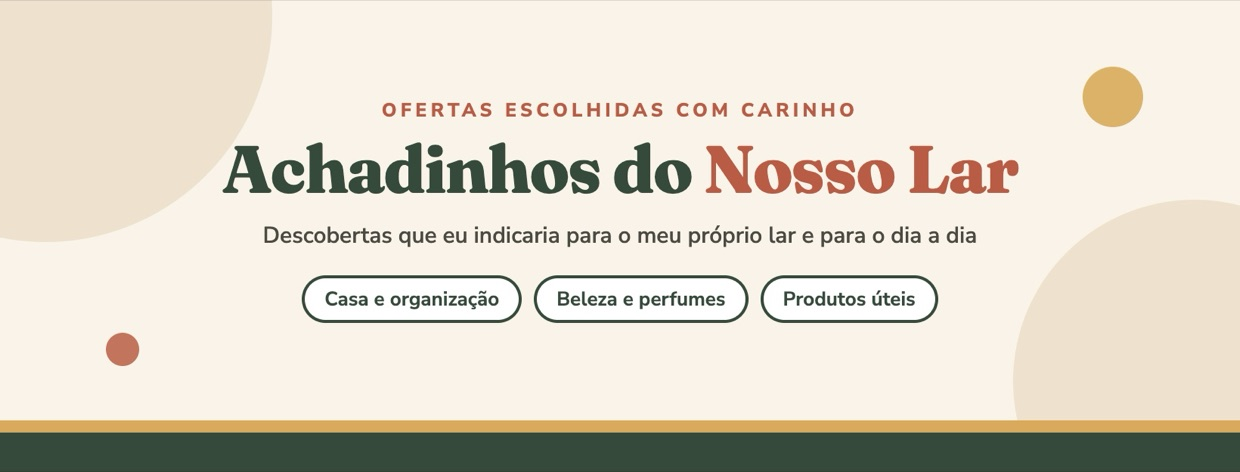
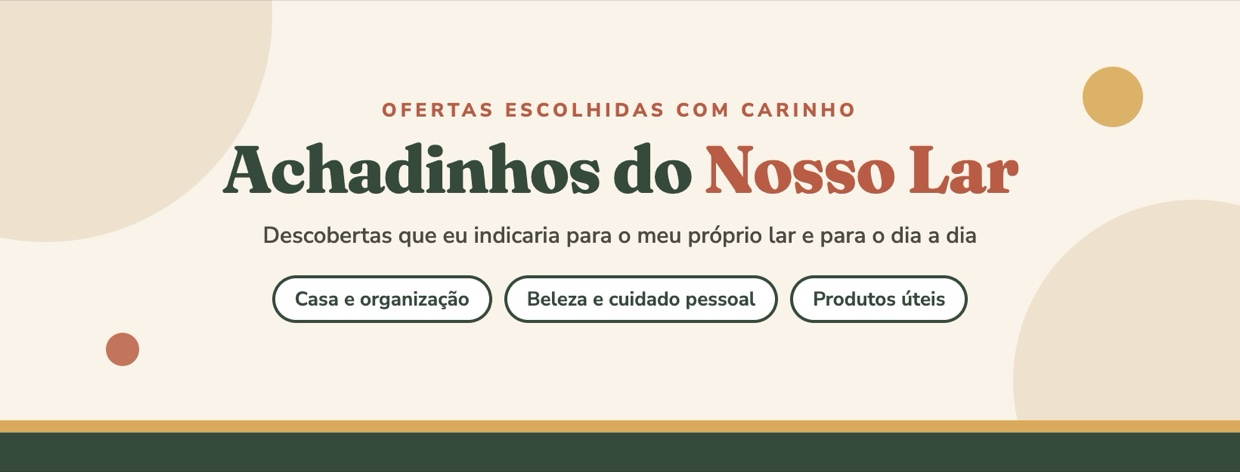
Troca perfumes por beleza e cuidado pessoal no texto e na capa

Changed region(s): [[0.2145, 0.5636, 0.7968, 0.6822]]

diff --git a/index.html b/index.html
@@ -4,11 +4,11 @@
 <meta charset="utf-8">
 <meta name="viewport" content="width=device-width, initial-scale=1, viewport-fit=cover">
 <title>Achadinhos do Nosso Lar | Grupo de ofertas no WhatsApp</title>
-<meta name="description" content="Achadinhos de casa, decoração, beleza, perfumes e produtos úteis da Shopee, do Mercado Livre e de outras lojas, escolhidos com carinho. Entre no grupo do WhatsApp.">
+<meta name="description" content="Achadinhos de casa, decoração, beleza e cuidado pessoal, além de produtos úteis da Shopee, do Mercado Livre e de outras lojas, escolhidos com carinho. Entre no grupo do WhatsApp.">
 <meta name="theme-color" content="#2F4B3A">
 <meta property="og:type" content="website">
 <meta property="og:title" content="Achadinhos do Nosso Lar">
-<meta property="og:description" content="Grupo de ofertas no WhatsApp: casa, decoração, beleza, perfumes e produtos úteis, escolhidos com carinho.">
+<meta property="og:description" content="Grupo de ofertas no WhatsApp: casa, decoração, beleza e cuidado pessoal, além de produtos úteis, escolhidos com carinho.">
 <meta property="og:image" content="https://thiagobenine.github.io/achadinhos-nosso-lar/img/capa.jpg">
 <meta property="og:url" content="https://thiagobenine.github.io/achadinhos-nosso-lar/">
 <link rel="icon" href="img/perfil.jpg">
@@ -76,7 +76,7 @@ src="https://www.facebook.com/tr?id=1785289442755386&ev=PageView&noscript=1"
 <body>
 <div class="pagina">
   <header class="topo">
-    <img class="capa" src="img/capa.jpg" width="1240" height="472" alt="Achadinhos do Nosso Lar: casa e organização, beleza e perfumes, produtos úteis">
+    <img class="capa" src="img/capa.jpg" width="1240" height="472" alt="Achadinhos do Nosso Lar: casa e organização, beleza e cuidado pessoal, produtos úteis">
     <img class="perfil" src="img/perfil.jpg" width="96" height="96" alt="Logo Achadinhos do Nosso Lar">
   </header>
 
@@ -84,7 +84,7 @@ src="https://www.facebook.com/tr?id=1785289442755386&ev=PageView&noscript=1"
     <span class="bolha b1" aria-hidden="true"></span><span class="bolha b2" aria-hidden="true"></span>
     <p class="selo">Grupo de ofertas no WhatsApp</p>
     <h1>Achadinhos do <em>Nosso Lar</em></h1>
-    <p class="frase">Achadinhos de casa, decoração, beleza, perfumes e produtos úteis da Shopee, do Mercado Livre e de outras lojas, escolhidos com carinho para o seu lar.</p>
+    <p class="frase">Achadinhos de casa, decoração, beleza e cuidado pessoal, além de produtos úteis da Shopee, do Mercado Livre e de outras lojas, escolhidos com carinho para o seu lar.</p>
 
     <a class="botao" id="entrar" href="#" rel="noopener">
       <svg viewBox="0 0 32 32" aria-hidden="true"><path fill="#FBF3E8" d="M16 3.2C9 3.2 3.3 8.8 3.3 15.8c0 2.4.7 4.7 1.9 6.7L3.2 28.8l6.5-2c1.9 1.1 4.1 1.6 6.3 1.6 7 0 12.7-5.6 12.7-12.6S23 3.2 16 3.2Zm0 23c-2 0-4-.6-5.7-1.6l-.4-.2-3.9 1.2 1.2-3.8-.3-.4a10.2 10.2 0 0 1-1.6-5.5C5.3 10 10.1 5.3 16 5.3s10.7 4.7 10.7 10.5S21.9 26.2 16 26.2Zm5.9-7.8c-.3-.2-1.9-.9-2.2-1-.3-.1-.5-.2-.7.2l-1 1.2c-.2.2-.4.2-.7.1-.3-.2-1.4-.5-2.6-1.6-1-.9-1.6-1.9-1.8-2.2-.2-.3 0-.5.1-.7l.5-.6.3-.5c.1-.2 0-.4 0-.6l-1-2.4c-.3-.6-.5-.5-.7-.5h-.6c-.2 0-.6.1-.9.4-.3.3-1.2 1.1-1.2 2.8s1.2 3.2 1.4 3.5c.2.2 2.4 3.6 5.8 5 2.9 1.1 3.4.9 4 .8.6-.1 1.9-.8 2.2-1.5.3-.8.3-1.4.2-1.5-.1-.1-.3-.2-.6-.4Z"/></svg>
